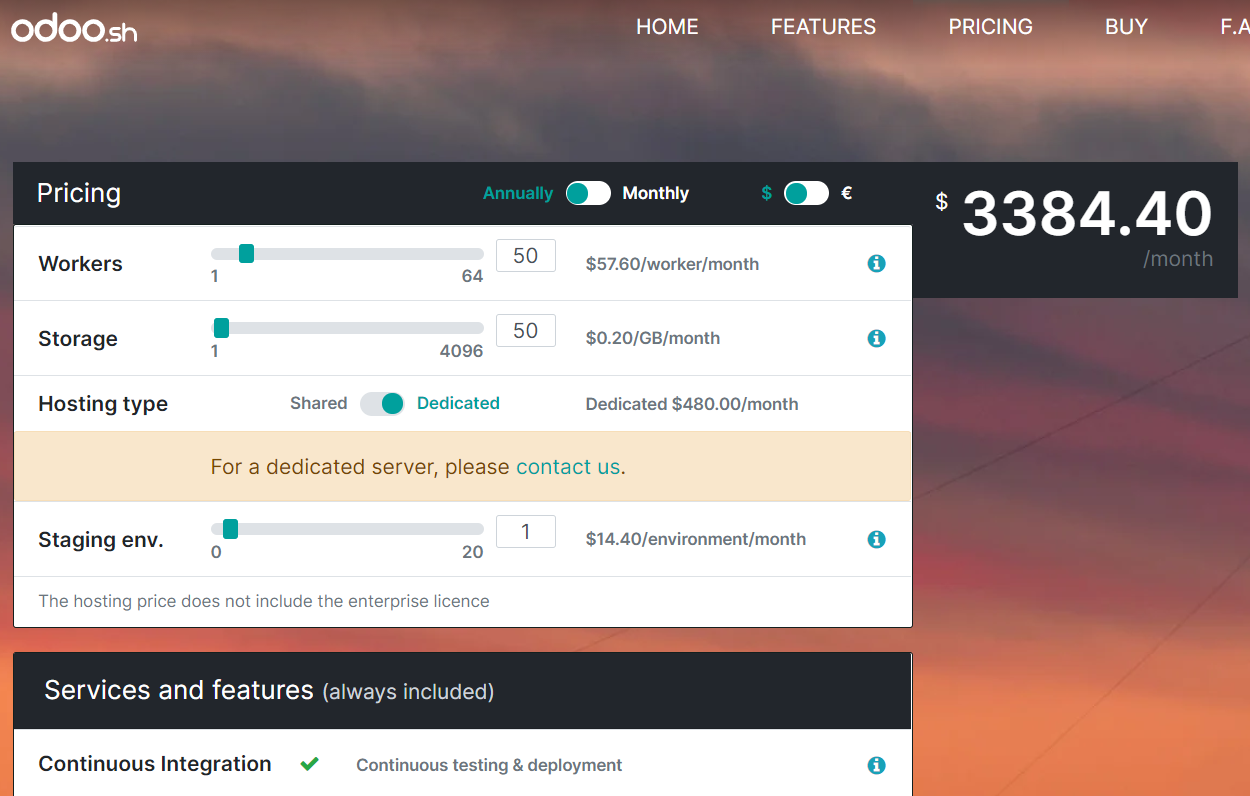
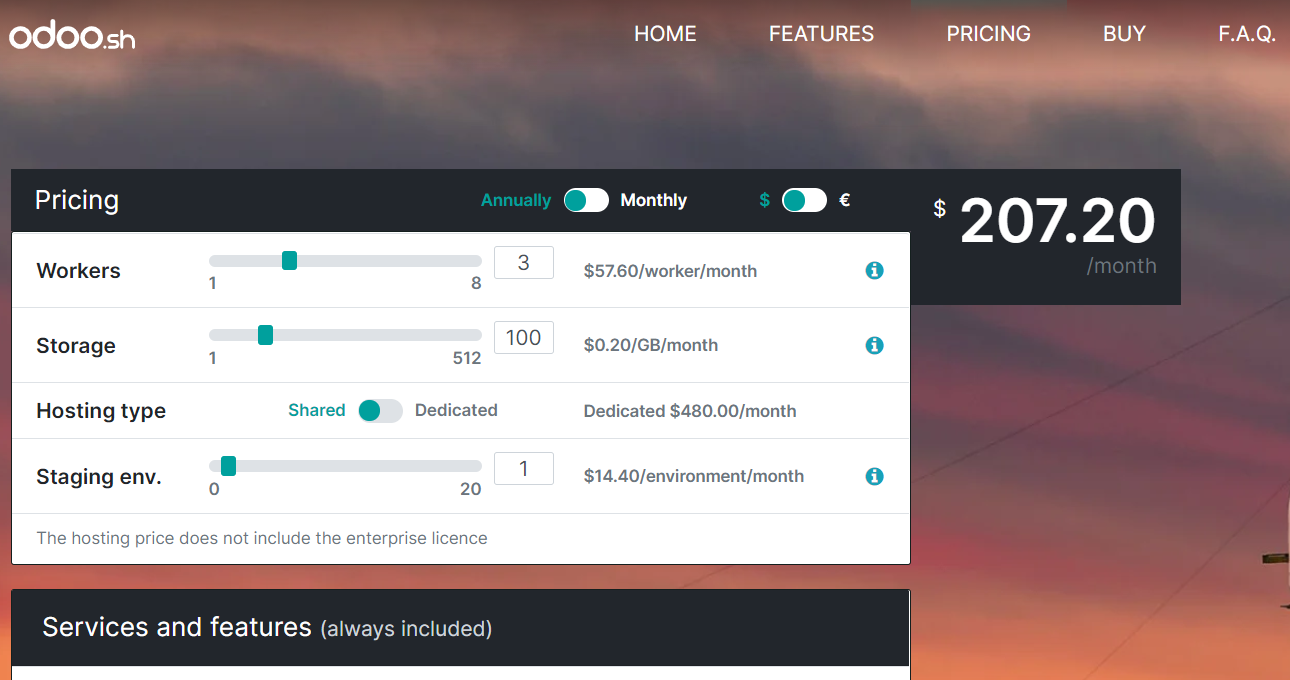
adjust the price as the definition of worker in odoo.sh in https://www.odoo.com/forum/help-1/how-many-workers-do-i-need-with-odoo-sh-145771

diff --git a/www/_posts/2021-02-15-aws-vpc-aurora-postgresql-odoo-crm-deployment.md b/www/_posts/2021-02-15-aws-vpc-aurora-postgresql-odoo-crm-deployment.md
@@ -48,7 +48,9 @@ There are several aspects to care about the pricing of introducing Odoo Enterpri
 
 * _The number of users_: Odoo license will be applied on the number of employees. Note that, employees who report their timesheet are counted as users. New customers obtain a 15% discount for each user at the time of this post.
 * _The number of apps_: Only CRM app is coming with the base Odoo Enterprise. The price of each additional app ranges from 4 to 8 dollars.
-* _Where do you host Odoo?_: There are 3 hosting types: Cloud hosting, on-premises, and [Odoo.sh platform](https://www.odoo.sh/). The first two options add no extra costs. You will pay by yourself to Cloud provider (AWS, IBM Cloud, etc.) or server costs. For the third option, the [Odoo.sh platform](https://www.odoo.sh/), you can find a simulation below with a 50-employee company, using 50GB of data every month, 1 staging environment, and they will pay about 3,384.40 dollars monthly.
+* _Where do you host Odoo?_: There are 3 hosting types: Cloud hosting, on-premises, and [Odoo.sh platform](https://www.odoo.sh/). The first two options add no extra costs. You will pay by yourself to Cloud provider (AWS, IBM Cloud, etc.) or server costs. For the third option, the [Odoo.sh platform](https://www.odoo.sh/), you can find a simulation below with a 50-employee company, using 50GB of data every month, 1 staging environment, and they will pay about 207.20 dollars monthly.
+I follow the rule-of-thumb as discussed [here](https://www.odoo.com/forum/help-1/how-many-workers-do-i-need-with-odoo-sh-145771).
+1 worker would be equal to 25 users, then for 50 employees, we would like to have 3 workers.
 
 ![](/assets/img/odo.sh-pricing.png)
 *Source: [https://www.odoo.sh/pricing](https://www.odoo.sh/pricing)*
@@ -64,11 +66,11 @@ Let's get some example of cost model for Odoo Enterprise in a medium-sized compa
 | Employees usage | 50 | 8$/user | 400 |
 | Discount on employees usage | 50 | -2$/user | -100|
 | App usage | 30 apps | 5$/app | 150 |
-| Hosting (Odoo.sh) | 1 | 3,384.40 | 3,384.40 |
+| Hosting (Odoo.sh) | 1 | 207.20 | 207.20 |
 | Implementation (Success Packs Basic) | 1 | 95.83 | 95.83 |
 | Discount on Success Packs Basic | 1 | -18.75 | -18.75 |
 | === | === | === | === |
-| **Total** | | | **3,911.48/month** |
+| **Total** | | | **734.28/month** |
 
 *Example 2:* Company B has 50 employees, using 30 apps (excluding CRM). They choose to buy the Enterprise pack but buy no Odoo.sh or Success Packs. They will implement by themselves.
 
@@ -77,18 +79,20 @@ Let's get some example of cost model for Odoo Enterprise in a medium-sized compa
 | Employees usage | 50 | 8$/user | 400 |
 | Discount on employees usage | 50 | -2$/user | -100|
 | App usage | 30 apps | 5$/app | 150 |
-| Hosting (Odoo.sh) | 0 | 3,384.40 | 0 |
+| Hosting (Odoo.sh) | 0 | 207.20 | 0 |
 | Implementation (Success Packs Basic) | 0 | 95.83 | 0 |
 | Discount on Success Packs Basic | 0 | -18.75 | 0 |
-| Customer hosting service | 1 | 400 | 400 |
-| Development and maintenance | 1 | 2000 | 2000 |
+| Customer hosting service | 1 | 200 | 200 |
+| Development and maintenance | 1 | 100 | 100 |
 | === | === | === | === |
-| **Total** | | | **2,850.00/month** |
+| **Total** | | | **750.00/month** |
 
 The development and maintenance which company B pay for is to the developers who implement and maintain the Odoo distribution in the company.
 In normal cases, there will be one or two person in charge for this stuff.
 Note that, this is the lowest prices the author found.
-Comparing to example 1, company B pay less in total, but the processes will rely more on human, and will be more **prone to human errors**. 
+Comparing to example 1, company B pay a little bit in total, and the processes will rely more on human, and will be more **prone to human errors**. 
+
+**_Huh, ready-to-use solution is cheaper than self-service solution, right?_**
 
 ### [Odoo Community](https://www.odoo.com/page/community)
 
@@ -99,9 +103,8 @@ Note that, although the community edition does not come with some custom apps, b
 Furthermore, when the app you need isn't in the given third-party community, you can start adding such idea to the community since the development of Odoo is completely open source. (However, it might be better to have ready-to-use solutions).
 **The process will be highly dependent on human, and will be prone to human errors.**
 Comparing to example 2, this solution will cost less, but the customer hosting price and Development/Maintenance costs might not be changed.
-So will similar quality, it only reduces about 20% in the part of costs for Odoo apps.
+So will similar quality, it only reduces about 60% in the part of costs for Odoo apps.
 And because you will need specialized personnel to implement custom Odoo apps, the cost for Development/Maintenance can increase.
-It's like paying in the same pattern in *Example 1* of company A, you will pay an extra cost of 1,000 dollars every month (or 12,000 dollars a year), but you and your people can sleep better.
 
 
 # Deploying Odoo to Amazon Web Service (AWS)
